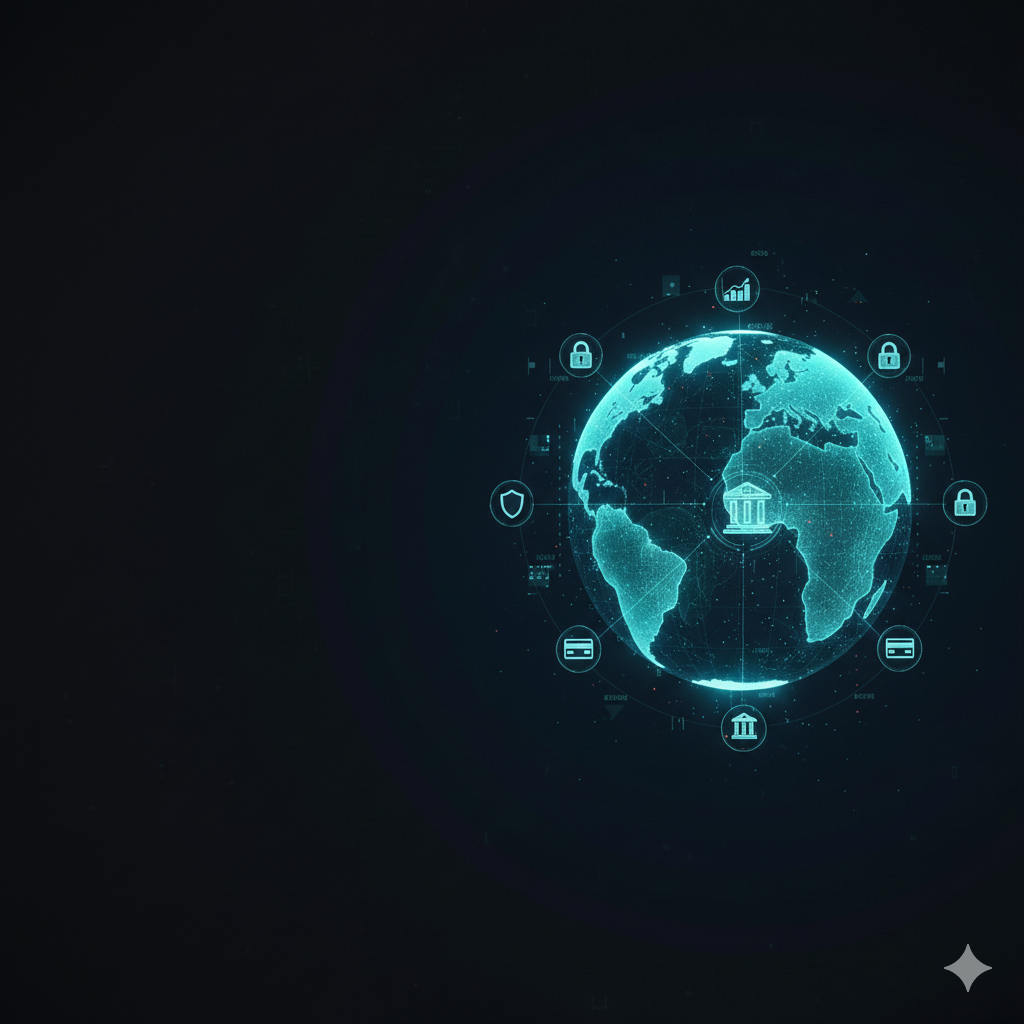
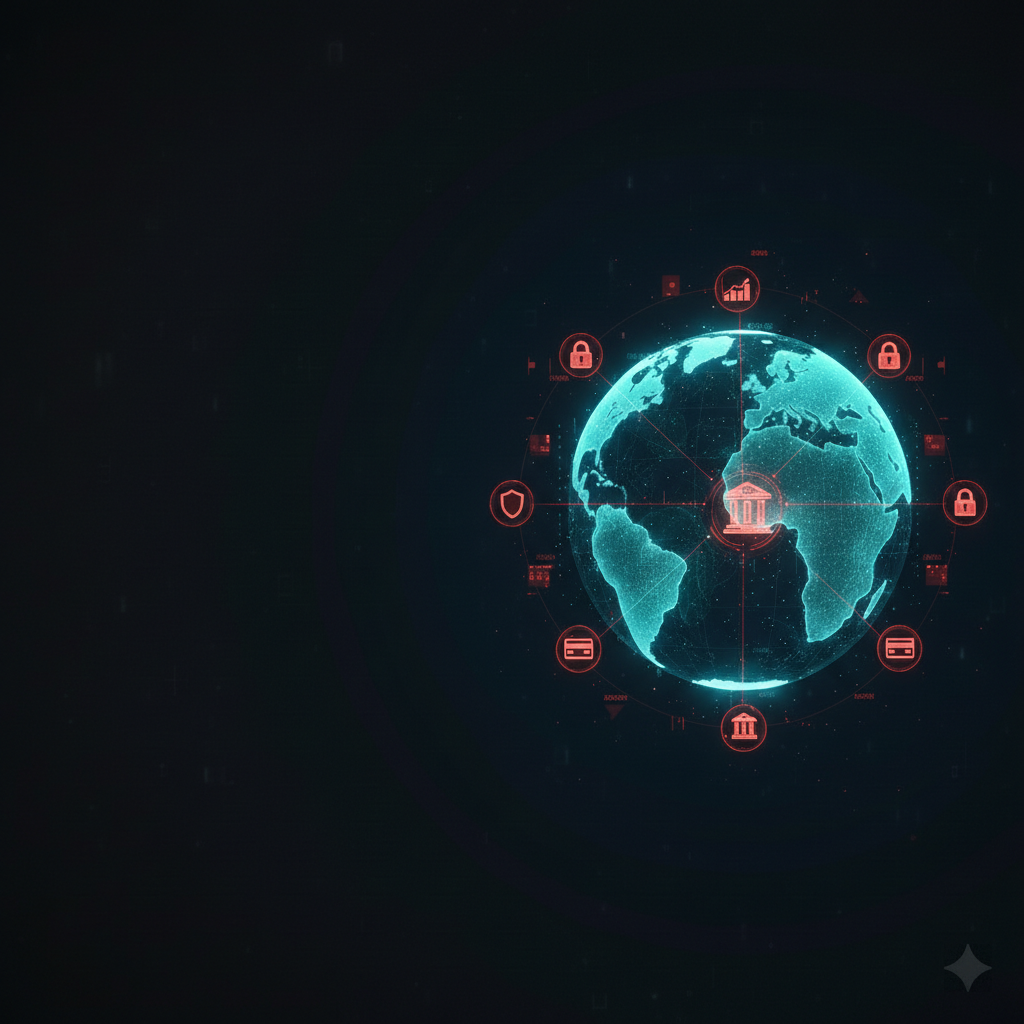
chnage theme

diff --git a/app/components/Footer.tsx b/app/components/Footer.tsx
@@ -29,13 +29,21 @@ export default function Footer() {
             {/* Column 1: Logo + Social */}
             <div>
               <Link href="/" className="inline-block relative h-10 w-50 sm:h-12 sm:w-[240px] mb-4">
-                <Image
+                {/* <Image
                   src="/DMNLogo.png"
                   alt="Donate Money Now"
                   className="object-contain object-left"
                   width={240}
                   height={100}
-                />
+                /> */}
+                 <Image
+                src="/logo-h2 1.png"
+                alt="Donate Money Now"
+                className=""
+                width={120}
+                height={50}
+                priority
+              />
               </Link>
            
             </div>

diff --git a/app/globals.css b/app/globals.css
@@ -3,8 +3,10 @@
 /* Project color theme - use in className via var(--name) */
 :root {
   /* Primary brand - buttons, links, highlights, icons */
-  --primary: #2DA2B5;
-  --primary-dark: #258a9a;
+  /* --primary: #2DA2B5;
+  --primary-dark: #258a9a; */
+  --primary: #DC143C;
+  --primary-dark: #DC143C;
   /* Dark UI - hero, navbar, footer, panels */
   --dark: #06151E;
   --darkSoft: #233037;
@@ -21,8 +23,8 @@
 
 /* Theme values must be literal for Tailwind to generate bg-primary, text-primary, etc. */
 @theme inline {
-  --color-primary: #2DA2B5;
-  --color-primary-dark: #258a9a;
+  --color-primary: var(--primary);
+  --color-primary-dark: var(--primary-dark);
   --color-dark: #06151E;
   --color-darkSoft: #233037;
   --color-light: #FBFDFD;

diff --git a/app/page.tsx b/app/page.tsx
@@ -20,7 +20,7 @@ export default function Home() {
       <Header />
       <section
         className="relative mt-18 min-h-[55vh] sm:min-h-[65vh] md:min-h-[75vh] lg:min-h-[80vh] py-12 sm:py-16 lg:py-20 flex items-center"
-        style={{ backgroundImage: "url('/hero4.png')", backgroundSize: "cover", backgroundPosition: "center", backgroundRepeat: "no-repeat" }}
+        style={{ backgroundImage: "url('/hero5.png')", backgroundSize: "cover", backgroundPosition: "center", backgroundRepeat: "no-repeat" }}
       >
         <div className="container mx-auto px-4 sm:px-6 lg:px-8 relative z-10 w-full">
           <div className="grid lg:grid-cols-2 gap-8 lg:gap-16 items-center w-full mx-auto">

diff --git a/app/components/Header.tsx b/app/components/Header.tsx
@@ -40,11 +40,11 @@ export default function Header() {
           <div className="flex items-center">
             <Link href="/" className="block relative  w-45 sm:h-20 sm:w-50">
               <Image
-                src="/DMNLogo.png"
+                src="/logo-h2 1.png"
                 alt="Donate Money Now"
-                fill
-                className="object-contain object-left"
-                sizes="220px"
+                className=""
+                width={120}
+                height={50}
                 priority
               />
             </Link>
